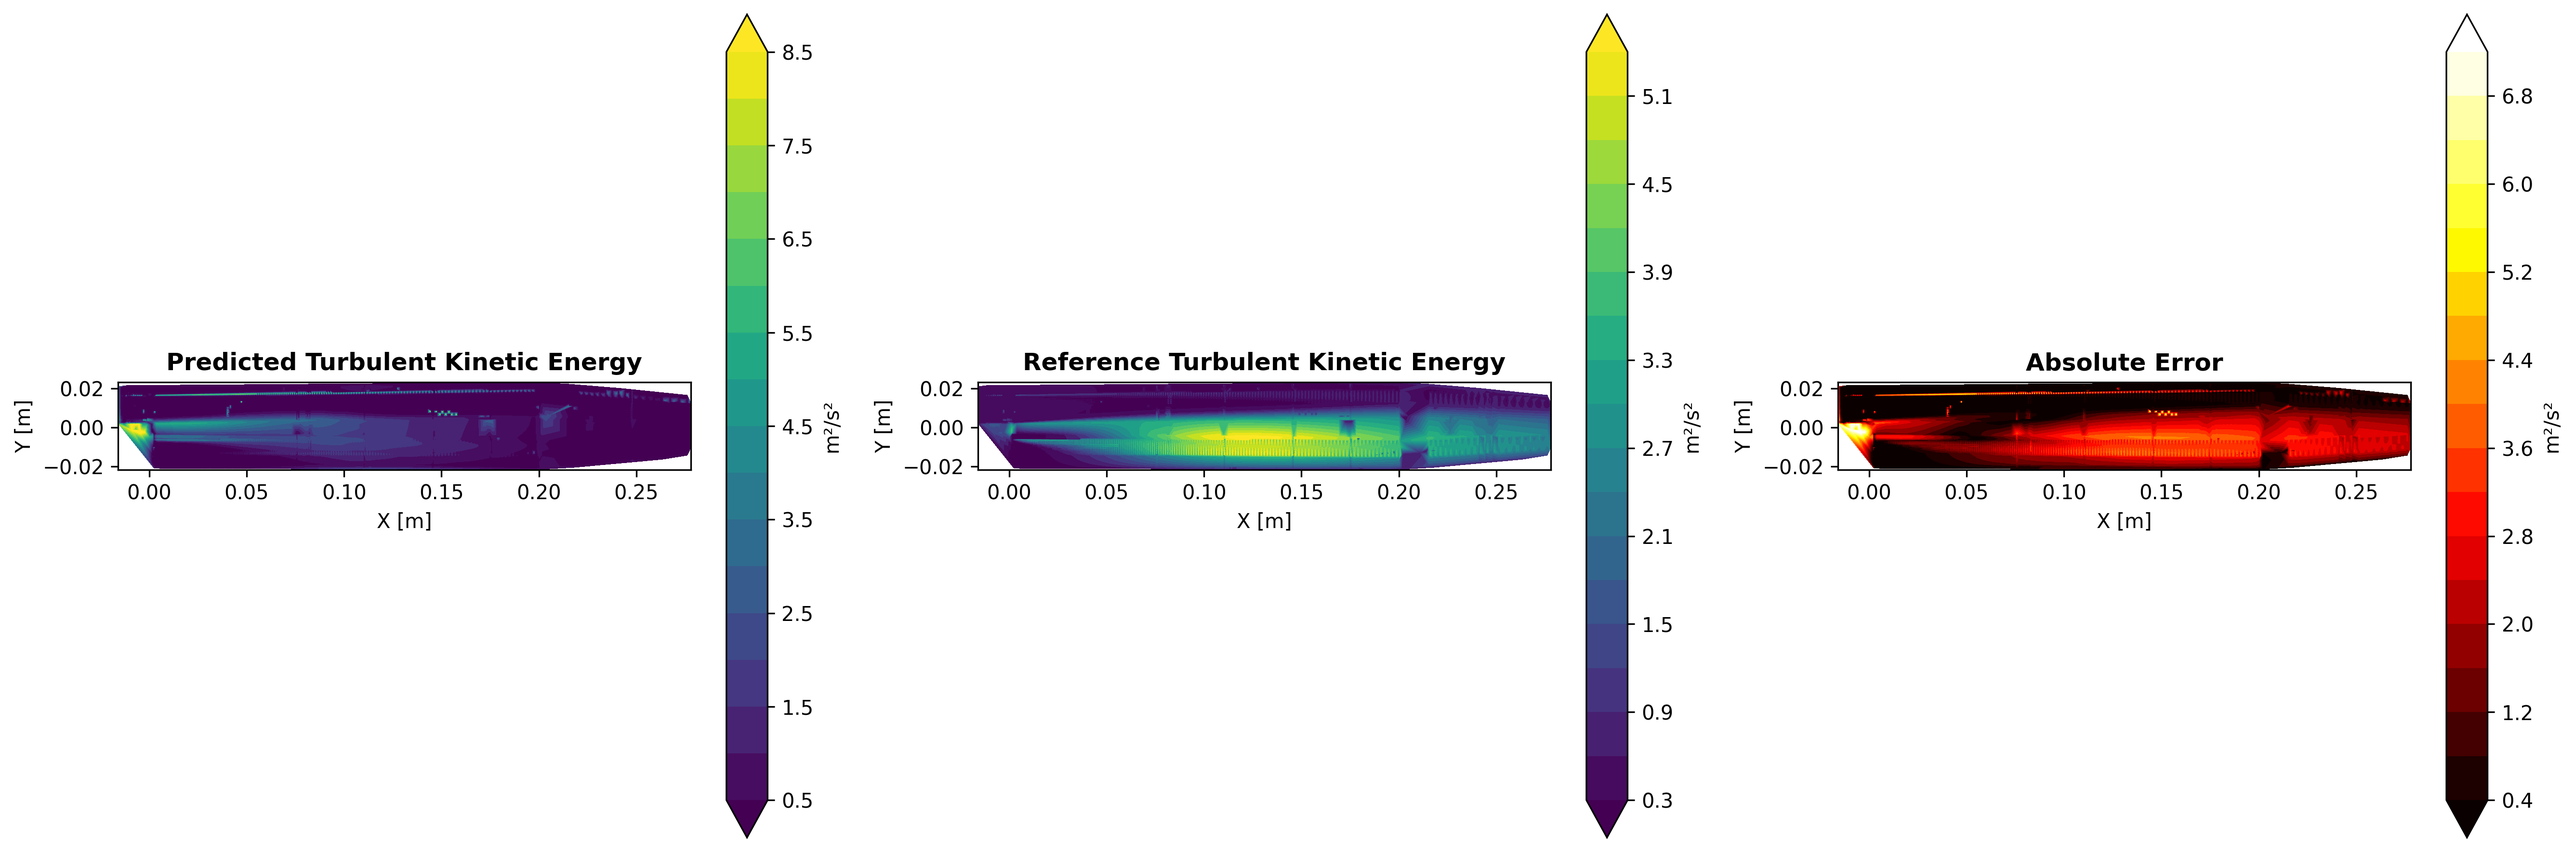
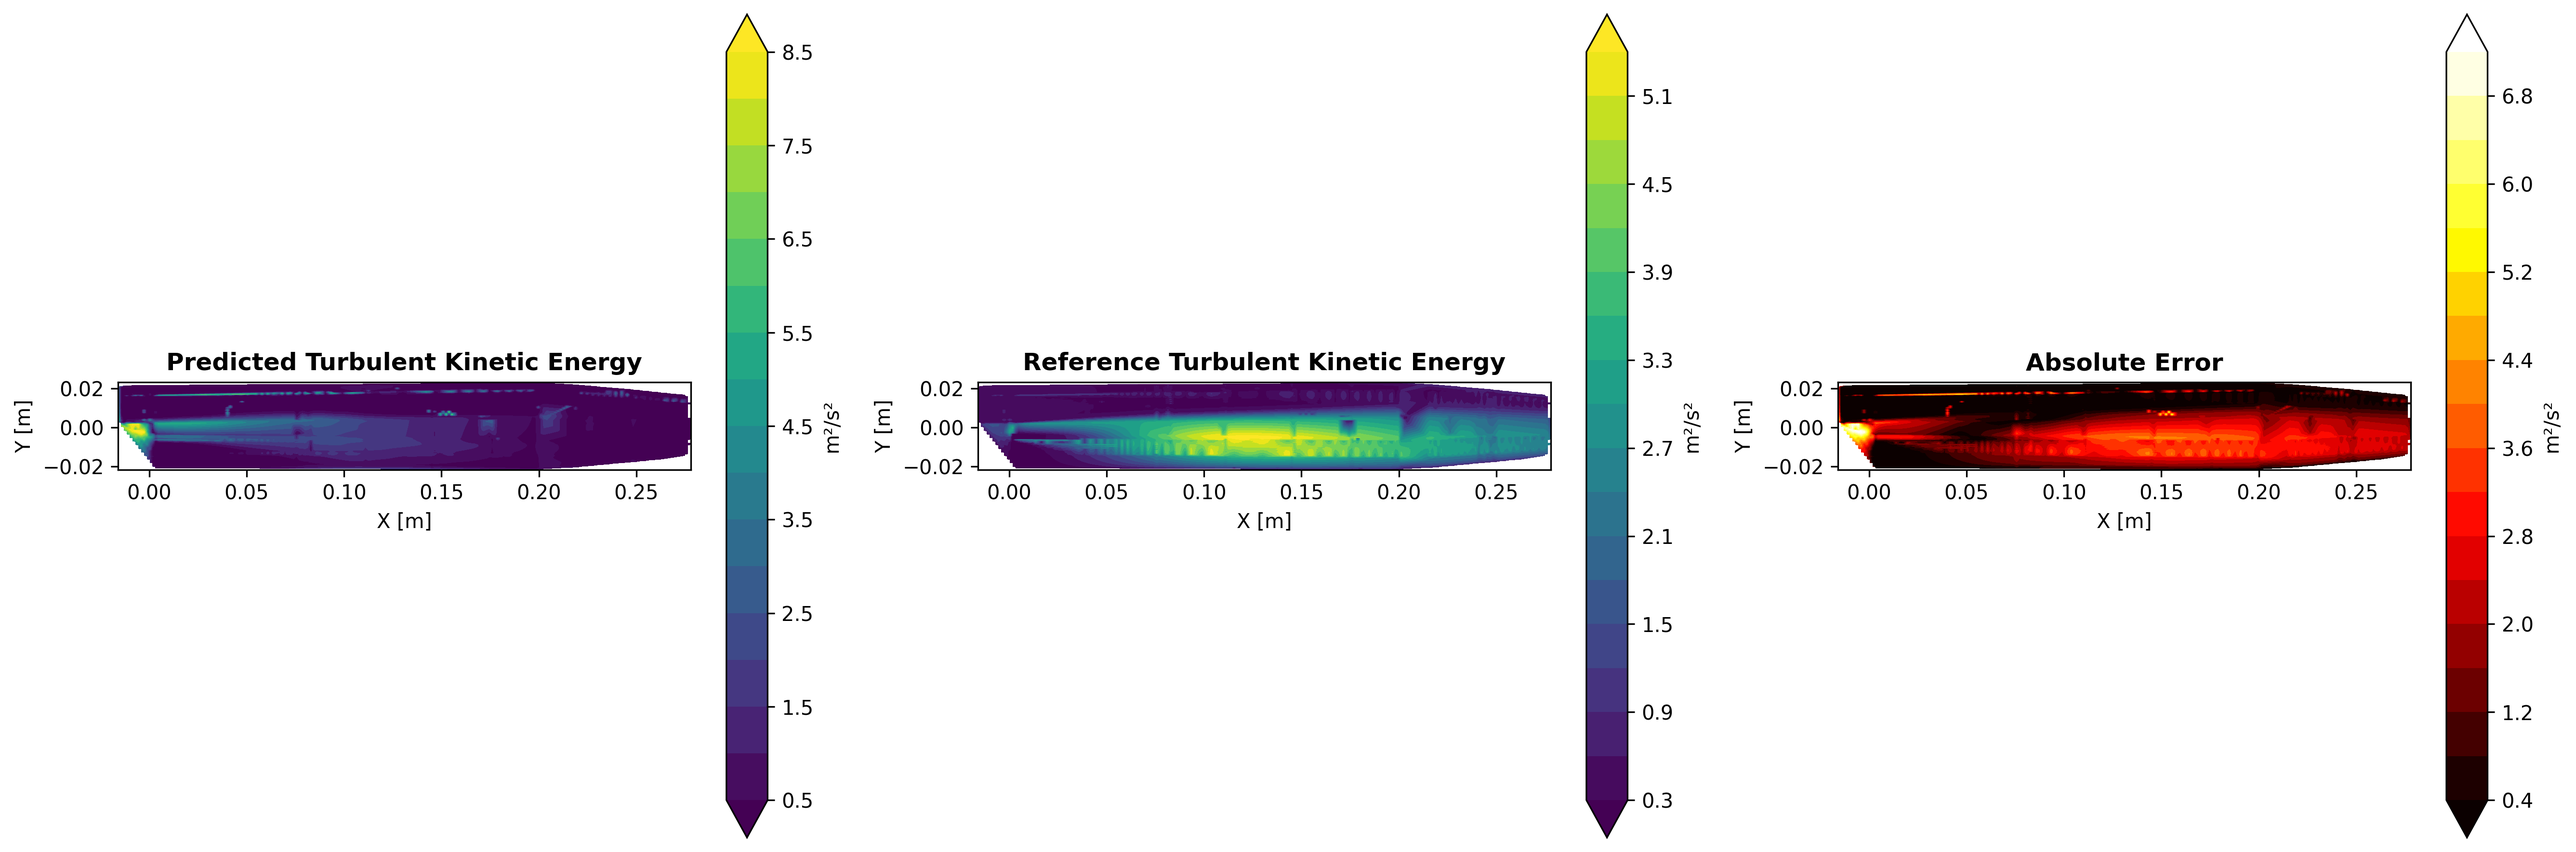
visualisation at least visible

Changed region(s): [[0.7183, 0.4972, 0.937, 0.5593], [0.406, 0.4972, 0.5622, 0.5593], [0.7808, 0.435, 0.8433, 0.4661]]

diff --git a/visualize.py b/visualize.py
@@ -179,34 +179,58 @@ def compare_fields(predicted_fields, reference_fields, cell_centers, output_dir)
         # Create comparison figure
         fig, axes = plt.subplots(1, 3, figsize=(18, 6))
         
-        # Use triangulation-based contouring for unstructured mesh (removes artifacts)
+        # Use griddata with Delaunay domain masking (from sample project)
         x = cell_centers[:, 0]
         y = cell_centers[:, 1]
         
-        from matplotlib.tri import Triangulation
+        # Create regular grid
+        nx, ny = 200, 200
+        xi = np.linspace(x.min(), x.max(), nx)
+        yi = np.linspace(y.min(), y.max(), ny)
+        Xi, Yi = np.meshgrid(xi, yi)
         
-        # Create triangulation from cell centers
-        tri = Triangulation(x, y)
+        from scipy.interpolate import griddata
+        from scipy.spatial import Delaunay
         
-        # Predicted field - use tricontourf for smooth unstructured mesh visualization
-        im1 = axes[0].tricontourf(tri, pred_mag, levels=20, cmap=config['cmap'], extend='both')
+        # Interpolate to grid
+        Zi_pred = griddata((x, y), pred_mag, (Xi, Yi), method='linear', fill_value=np.nan)
+        Zi_ref = griddata((x, y), ref_mag, (Xi, Yi), method='linear', fill_value=np.nan)
+        error = np.abs(pred_mag - ref_mag)
+        Zi_err = griddata((x, y), error, (Xi, Yi), method='linear', fill_value=np.nan)
+        
+        # Domain masking with Delaunay triangulation (key fix from sample project)
+        try:
+            points_2d = np.column_stack([x, y])
+            tri = Delaunay(points_2d)
+            grid_points = np.column_stack([Xi.ravel(), Yi.ravel()])
+            mask = tri.find_simplex(grid_points) >= 0
+            mask = mask.reshape(Xi.shape)
+            
+            # Mask points outside domain
+            Zi_pred[~mask] = np.nan
+            Zi_ref[~mask] = np.nan
+            Zi_err[~mask] = np.nan
+        except:
+            pass  # If Delaunay fails, continue without masking
+        
+        # Predicted field
+        im1 = axes[0].contourf(Xi, Yi, Zi_pred, levels=20, cmap=config['cmap'], extend='both')
         axes[0].set_title(f'Predicted {config["name"]}', fontsize=12, fontweight='bold')
         axes[0].set_xlabel('X [m]')
         axes[0].set_ylabel('Y [m]')
         axes[0].set_aspect('equal')
         plt.colorbar(im1, ax=axes[0], label=config['unit'])
         
-        # Reference - use tricontourf for smooth unstructured mesh visualization
-        im2 = axes[1].tricontourf(tri, ref_mag, levels=20, cmap=config['cmap'], extend='both')
+        # Reference
+        im2 = axes[1].contourf(Xi, Yi, Zi_ref, levels=20, cmap=config['cmap'], extend='both')
         axes[1].set_title(f'Reference {config["name"]}', fontsize=12, fontweight='bold')
         axes[1].set_xlabel('X [m]')
         axes[1].set_ylabel('Y [m]')
         axes[1].set_aspect('equal')
         plt.colorbar(im2, ax=axes[1], label=config['unit'])
         
-        # Error - use tricontourf for smooth unstructured mesh visualization
-        error = np.abs(pred_mag - ref_mag)
-        im3 = axes[2].tricontourf(tri, error, levels=20, cmap='hot', extend='both')
+        # Error
+        im3 = axes[2].contourf(Xi, Yi, Zi_err, levels=20, cmap='hot', extend='both')
         axes[2].set_title(f'Absolute Error', fontsize=12, fontweight='bold')
         axes[2].set_xlabel('X [m]')
         axes[2].set_ylabel('Y [m]')
@@ -257,7 +281,33 @@ def visualize_predictions(checkpoint_path, case_path, reference_time, output_dir
     }
     
     # Get cell centers for internal cells
-    cell_centers = mesh_data['cell_centers'][:n_internal]
+    cell_centers_all = mesh_data['cell_centers'][:n_internal]
+    
+    # Filter to z >= 0 (positive z side, corresponding to z = 0.0005 in polyMesh points)
+    # Since cell centers are averaged from points at z = -0.0005 and z = 0.0005,
+    # cells with z >= 0 are closer to the z = 0.0005 plane
+    z_mask = cell_centers_all[:, 2] >= 0
+    n_filtered = np.sum(z_mask)
+    
+    print(f"Filtering to z >= 0 (positive z side, corresponding to z = 0.0005 in points): {n_filtered} cells (from {n_internal} total)")
+    
+    if n_filtered == 0:
+        print("Warning: No cells found with z > 0, using all cells")
+        cell_centers = cell_centers_all
+    else:
+        # Filter cell centers and fields
+        cell_centers = cell_centers_all[z_mask]
+        for field_name in predicted_fields:
+            if len(predicted_fields[field_name].shape) > 1:
+                predicted_fields[field_name] = predicted_fields[field_name][z_mask]
+            else:
+                predicted_fields[field_name] = predicted_fields[field_name][z_mask]
+        
+        for field_name in ref_dict:
+            if len(ref_dict[field_name].shape) > 1:
+                ref_dict[field_name] = ref_dict[field_name][z_mask]
+            else:
+                ref_dict[field_name] = ref_dict[field_name][z_mask]
     
     print("Creating visualization plots...")
     compare_fields(predicted_fields, ref_dict, cell_centers, output_dir)
